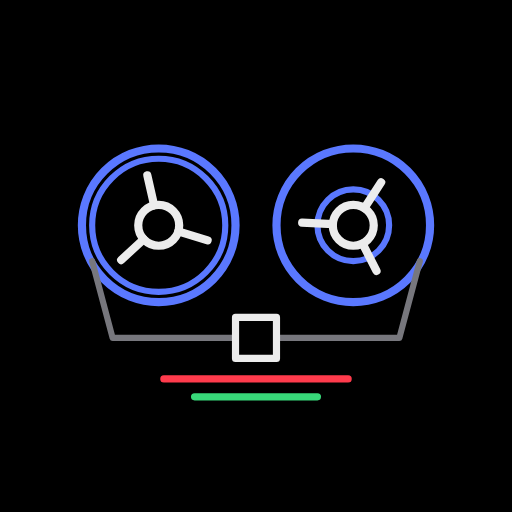
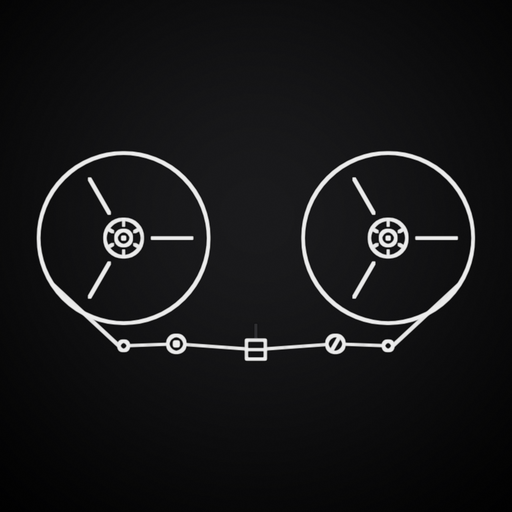
Íconos nuevos en alta calidad para Radio HD, Radio B&O y Radio Tape (con versión adaptable para Android)
Claude-Session: https://claude.ai/code/session_01KUhywioFSNA2FCbFv9yKMq

Changed region(s): [[0.0625, 0.2188, 0.9375, 0.7812]]

diff --git a/estudio83/radio-tape/sw.js b/estudio83/radio-tape/sw.js
@@ -1,4 +1,4 @@
-const C='radio-tape-v1794445198',FILES=['./','index.html','manifest.json','icon-192.png','icon-512.png'];
+const C='radio-tape-v1794523881',FILES=['./','index.html','manifest.json','icon-192.png','icon-512.png','icon-maskable-192.png','icon-maskable-512.png'];
 self.addEventListener('install',e=>{e.waitUntil(caches.open(C).then(c=>c.addAll(FILES)).catch(()=>{}));self.skipWaiting();});
 self.addEventListener('activate',e=>{e.waitUntil(caches.keys().then(k=>Promise.all(k.filter(x=>x!==C).map(x=>caches.delete(x)))));self.clients.claim();});
 self.addEventListener('fetch',e=>{const u=new URL(e.request.url);if(u.origin!==location.origin||e.request.method!=='GET')return;

diff --git a/estudio83/radio-bo/sw.js b/estudio83/radio-bo/sw.js
@@ -1,4 +1,4 @@
-const C='radio-bo-v1794523485',FILES=['./','index.html','manifest.json','icon-192.png','icon-512.png'];
+const C='radio-bo-v1794523881',FILES=['./','index.html','manifest.json','icon-192.png','icon-512.png','icon-maskable-192.png','icon-maskable-512.png'];
 self.addEventListener('install',e=>{e.waitUntil(caches.open(C).then(c=>c.addAll(FILES)).catch(()=>{}));self.skipWaiting();});
 self.addEventListener('activate',e=>{e.waitUntil(caches.keys().then(k=>Promise.all(k.filter(x=>x!==C).map(x=>caches.delete(x)))));self.clients.claim();});
 self.addEventListener('fetch',e=>{const u=new URL(e.request.url);if(u.origin!==location.origin||e.request.method!=='GET')return;

diff --git a/estudio83/radio/sw.js b/estudio83/radio/sw.js
@@ -1,4 +1,4 @@
-const C='radio-v1794445198',FILES=['./','index.html','manifest.json','icon-192.png','icon-512.png'];
+const C='radio-v1794523881',FILES=['./','index.html','manifest.json','icon-192.png','icon-512.png','icon-maskable-192.png','icon-maskable-512.png'];
 self.addEventListener('install',e=>{e.waitUntil(caches.open(C).then(c=>c.addAll(FILES)).catch(()=>{}));self.skipWaiting();});
 self.addEventListener('activate',e=>{e.waitUntil(caches.keys().then(k=>Promise.all(k.filter(x=>x!==C).map(x=>caches.delete(x)))));self.clients.claim();});
 self.addEventListener('fetch',e=>{const u=new URL(e.request.url);if(u.origin!==location.origin||e.request.method!=='GET')return;
